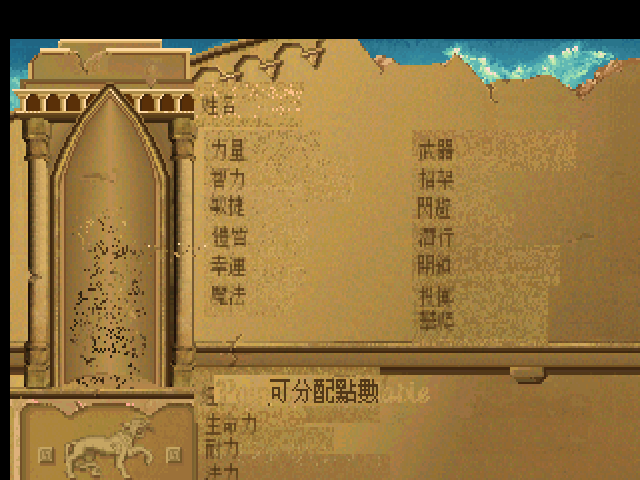
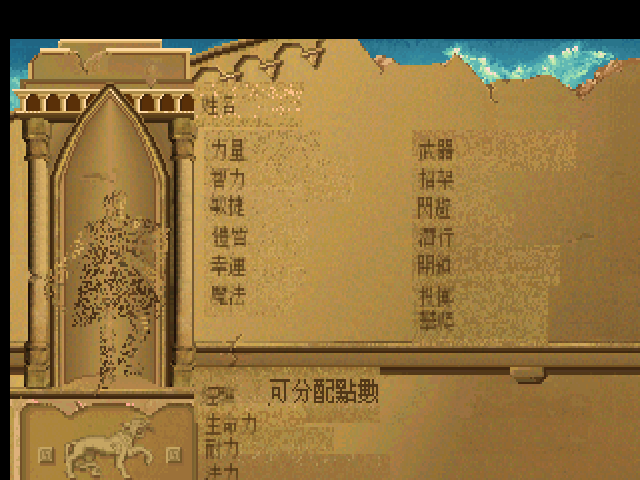
baked-art: 補修 view 802 可分配點數英文殘留 + 收尾影片/文件
- view 802 loop7/cel0(Points Available):原重繪只蓋中段,原始 "Points
  Available" 頭尾(Poi…/…ble)未擦淨,從「可分配點數」兩側露出。改用
  透明遮罩只保留中文墨跡(alpha=0→clearKey,pic 羊皮紙透出),重編 802.v56。
  實機重拍角色創建畫面(out/shots/cc_03.png)驗證殘留消失。
- README:進度勾選 VGA baked-art 完成;實機畫面表加角色創建前後對照。
- WORKLIST:M2-D 標記完成 + 推廣影片列。
- 新增工具:make_promo.sh(ffmpeg 宣傳片)、rec_music*.sh(錄原版配樂)、
  id_cc*.sh(角色創建 cel 識別)。
- 推廣影片 out/video/*.mp4 與配樂 out/music/*.wav 含原版版權音樂,gitignore。

Changed region(s): [[0.0625, 0.4062, 0.2812, 0.8125], [0.3125, 0.7812, 0.6875, 0.8438]]

diff --git a/tools/sci_view.py b/tools/sci_view.py
@@ -357,12 +357,35 @@ def read_ppm_rgb(path: Path):
 # File-level helpers (patch / dump wrapper handling)
 # --------------------------------------------------------------------------------
 
+def _looks_like_view_header(d: bytes) -> bool:
+    """Plausibility check for 'd starts at a raw SCI1.1 view resource header'.
+    headerSize/loopSize/celSize must fall within the ranges initData() relies on;
+    a 26-byte all-but-byte0 patch wrapper (mostly zero, byte0=0x80) fails this
+    (headerSize would compute to 130, well outside a real view's ~16-40 byte header)."""
+    if len(d) < 16:
+        return False
+    header_size = struct.unpack_from('<H', d, 0)[0] + 2
+    loop_count = d[2]
+    loop_size = d[12]
+    cel_size = d[13]
+    return 8 <= header_size <= 64 and 1 <= loop_count <= 32 and loop_size >= 12 and cel_size >= 32
+
+
 def load_view_data(path: Path) -> bytes:
-    """Strip the 2-byte SCI_DUMP_RES wrapper ([0x80, 0x00]) if present; otherwise
-    treat the file as raw view resource data."""
+    """Strip whichever wrapper is present and return raw view resource data:
+      - 2-byte SCI_DUMP_RES dump wrapper ([type|0x80, headerSize=0x00]) -- used by
+        out/dump/view.NNN for a view loaded straight from the base game archive.
+      - 26-byte loose-patch wrapper (processPatch()'s kResourceTypeView formula) -- this
+        is what SCI_DUMP_RES re-emits for a resource that was *loaded from* a loose
+        patch file (Resource::writeToStream() reuses the patch's own header instead of
+        synthesizing the plain 2-byte one), e.g. re-dumping view.802 after installing an
+        802.v56 patch to verify it took effect. Mirrors load_pic_data()'s handling.
+    Falls back to treating the file as already-unwrapped raw view data."""
     raw = path.read_bytes()
-    if len(raw) >= 2 and raw[0] == 0x80 and raw[1] == 0x00:
+    if len(raw) >= 2 and raw[0] == 0x80 and raw[1] == 0x00 and _looks_like_view_header(raw[2:]):
         return raw[2:]
+    if len(raw) >= 26 and (raw[0] & 0x80) and _looks_like_view_header(raw[26:]):
+        return raw[26:]
     return raw
 
 

diff --git a/README.md b/README.md
@@ -88,7 +88,7 @@
 - [x] **M2 VGA 全文字**:4521 則抽字,**4480 則已翻(99%)**;古風明體(AR PL UMing TW 15px)
 - [x] **M3 EGA 全文字**:3883+ 則,**99%**(含 `script.*` 內嵌選單/死亡訊息/對白;1561 則沿用 VGA 共用文本)
 - [x] **路線 A 編碼器**:自製 SCI1.1 view/pic 解碼/編碼器(`tools/sci_view.py`),把烘進美術圖的英文標籤換成中文
-- [ ] **VGA baked-art 重繪**:角色創建羊皮紙 pic 904 的 13 個屬性名 + view 802 的按鈕(進行中)
+- [x] **VGA baked-art 重繪**:角色創建畫面 pic 904(13 屬性/技能名 + 姓名/經驗/生命/體力/法力)+ view 802(開始/取消/可分配點數),實機驗證
 - [ ] **M4** 多平台打包交付
 
 ### 實機畫面
@@ -96,7 +96,10 @@
 | | 英文原版 | 繁體中文化 |
 |---|---|---|
 | VGA 版權框 | ![en](docs/images/m1-spike-copyright-en.png) | ![cht](docs/images/m1-spike-copyright-cht.png) |
+| VGA 角色創建(baked-art) | ![cc-en](docs/images/m2-charcreate-en.png) | ![cc-cht](docs/images/m2-charcreate-cht.png) |
 | EGA 版權框 | — | ![ega](docs/images/m3-ega-copyright-cht.png) |
+
+> 角色創建畫面的屬性名(力量/智力/…)與「可分配點數」原本是**烘進背景美術圖與 view 的英文**,非文字資源;由自製 SCI1.1 view/pic 編碼器逐一挖除英文、重繪中文明體。
 
 ### 兩版、兩種難關
 

diff --git a/WORKLIST.md b/WORKLIST.md
@@ -12,8 +12,9 @@ repo:`github.com/wicanr2/qfg-cht-1`(main,已 push)。工作目錄 `~/scummvm/qfg
 | M2 古風字型 | ✅ AR PL UMing TW 明體 15px,烘 2486 字 Big5 |
 | **路線A view/pic 編碼器** | ✅ `tools/sci_view.py`(view + **pic**),view 908 / pic 904 spike 皆實機驗證(cel→「英雄」、Strength→「力量」) |
 | **M3 EGA 文字中文化** | ✅ **3878/3883(99%)**,1561 沿用 VGA + 2317 haiku;實機驗證版權文 |
-| M2-D VGA baked-art 重繪 | 🔲 **進行中**:編碼器已就緒(view+pic),待逐標籤重繪成中文——角色創建 = pic 904(13 屬性名)+ view 802(start/cancel/Points Available) |
+| **M2-D VGA baked-art 重繪** | ✅ 角色創建畫面:pic 904(13 屬性/技能名 + 姓名/經驗/生命/體力/法力)+ view 802(開始/取消/可分配點數),實機驗證(`out/shots/cc_03.png`)。Points Available 殘留已補修(`repaint/802_fixed.v56`) |
 | M4 多平台打包 | 🔲 未開始 |
+| 推廣影片 | ✅ `out/video/qfg1_cht_promo.mp4`(44s,VGA/EGA 穿插 + 原版配樂;版權素材 gitignore) |
 
 ## VGA baked-art 已識別(角色創建畫面)
 - **pic 904**(320×200 背景圖):烘了 13 個屬性/技能名(Strength/Intelligence/…/Climbing)+ Name:/Experience/Health/Stamina/Magic Points。**pic 解碼/編碼器已完成並實機驗證**(`sci_view.py pic-decode/pic-verify/pic-roundtrip/pic-encode`,細節見 `docs/40-baked-art-ui.md`);下一步是把 13 個標籤逐一重繪成中文明體(目前只 spike 驗證了 Strength→「力量」一個標籤,其餘 12 個 + Name:/Experience/Health/Stamina/Magic Points 待做)。